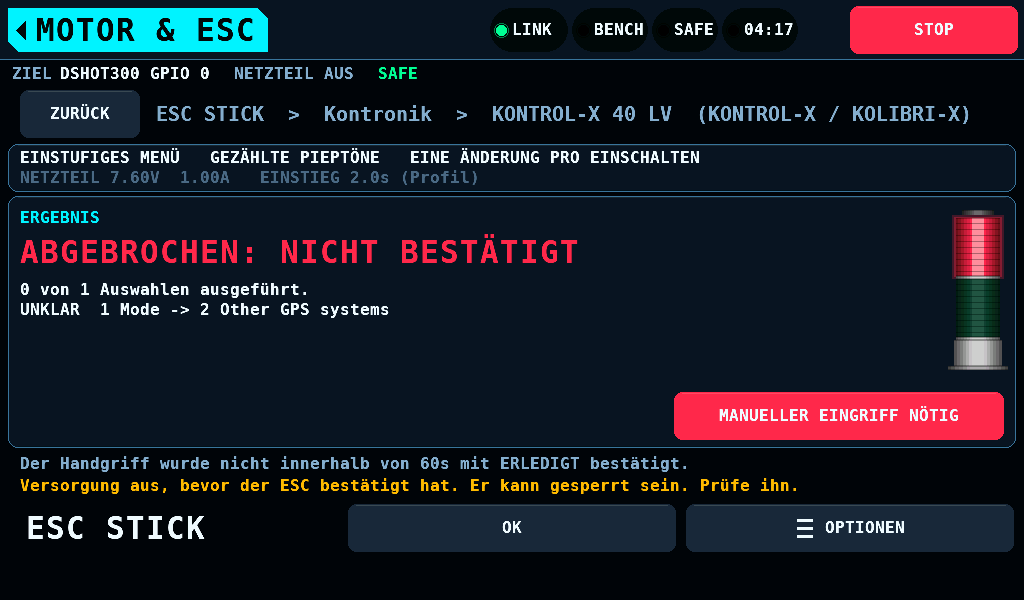
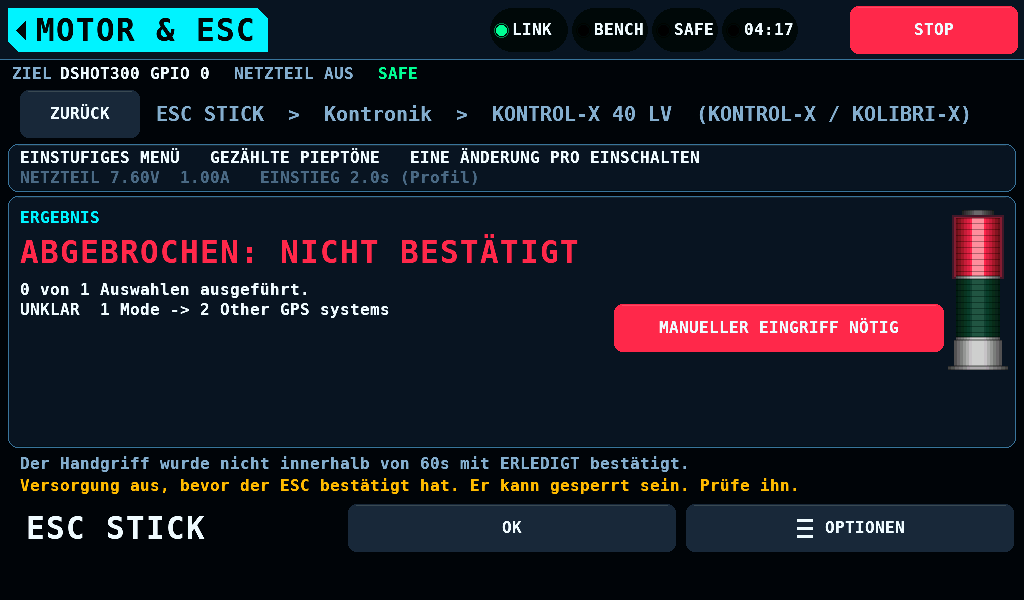
Move a result's MANUAL INTERVENTION REQUIRED beside the change lines
The button sat at the run card's foot, over the steps after programming,
the supply-off warning and the undo reminder. It now stands left of the
stack light at body y 244 to 292; the change lines beside it end 12px
to its left, and the button is drawn before every line.

Changed region(s): [[0.6562, 0.63, 1.0, 0.75], [0.5938, 0.48, 0.9375, 0.6]]

diff --git a/test/host/test_esc_stick_panel_hold.c b/test/host/test_esc_stick_panel_hold.c
@@ -10,11 +10,13 @@
  * - every_step_after_programming_is_shown
  * - no_step_at_the_esc_while_the_supply_reads_live
  * - the_run_page_shows_the_phase_tap_while_it_is_enabled
+ * - no_result_line_reaches_the_manual_button
  *
  * SPDX-License-Identifier: MIT
  */
 
 #include "esc_stick_panel_rig.h"
+#include "ui_widgets.h"
 #include "hold_flash.h"
 
 /* SUN PLUS mode 4 waits 5s from power-on, the profile's entry 2s: the
@@ -525,6 +527,147 @@ static int tone_drawn(rig_t *r, const tone_readout_t *t, int buf)
 
 /* A run's page shows the phase tap while the tap is enabled on SETUP, in
  * each state it can be in, and nothing in its place while it is not. */
+/** @brief Profile @p id's run with rows 0 to @p picks - 1 stepped once,
+ *         aborted at once, its result with the supply reading live.
+ *  @param id    The profile.
+ *  @param picks The rows stepped. */
+static void result_of(const char *id, int picks)
+{
+    fresh();
+    open_profile(id);
+    if (esc_stick_panel_hand_shown()) {
+        tap(CANCEL_X, HOLD_Y);               /* the first opening */
+    }
+    for (int k = 0; k < picks; ++k) {
+        tap(STEP_UP_X, STEP_CY(k));
+    }
+    supply_reads_off();
+    tap(WRITE_X, BTN_CY);                    /* the warning */
+    hold_for(2.25f);
+    if (esc_stick_panel_runs() == 0u) {
+        tap(STEPS_X, HOLD_Y);                /* ALL STEPS read */
+        tap(CANCEL_X, HOLD_Y);
+        hold_for(2.25f);
+    }
+    CHECK_EQ(esc_stick_panel_runs(), 1u);
+    tap(WRITE_X, BTN_CY);                    /* ABORT: the result */
+    (void)drain_cmds(MOTOR_CMD_ARM);
+    supply_state_t st;                       /* the output still on */
+    memset(&st, 0, sizeof(st));
+    st.samples = 9u;
+    st.output = true;
+    st.mode = SUPPLY_MODE_CV;
+    st.online = true;
+    st.ok = SUPPLY_OK_VOLTAGE | SUPPLY_OK_CURRENT;
+    esc_stick_panel_supply(&st);
+    scr->tick(0.02f);
+    if (esc_stick_panel_hand_shown()) {
+        tap(CANCEL_X, HOLD_Y);               /* OK: the steps, by themselves */
+    }
+}
+
+/** @brief The pixels in the result's MANUAL INTERVENTION REQUIRED, 8px in
+ *         from its edges, that are not the button as it draws alone.
+ *  @return the count */
+static int foreign_in_manual_button(void)
+{
+    static gfx_color_t ref[W * H];
+    gfx_canvas_t rc;
+    gfx_canvas_init(&rc, ref, W, H, W);
+    const gfx_rect_t b = { ST_HAND_RES_L, ST_HAND_RES_T, ST_HAND_RES_W,
+                           UI_TAP_MIN };
+    ui_button_font(&rc, b, TR(SP_HAND_BTN), ui_theme_color(UI_C_DANGER),
+                   false, true, &gfx_font_10x20);
+    memset(fb, 0, (size_t)W * H * sizeof(gfx_color_t));
+    stick_invalidate();
+    scr->render(&cv, 0);
+    int n = 0;
+    for (int y = b.y + 8; y < b.y + b.h - 8; ++y) {
+        for (int x = b.x + 8; x < b.x + b.w - 8; ++x) {
+            n += fb[(size_t)y * W + x] != ref[(size_t)y * W + x];
+        }
+    }
+    return n;
+}
+
+/* A result of a profile with manual steps draws MANUAL INTERVENTION
+ * REQUIRED, and no line of the result reaches into it, in English and
+ * German: HELI JIVE's steps after programming, the supply-off warning and
+ * the undo reminder; and the fullest change lines, five changes of the
+ * 8-item menu with four long steps after programming.  The button is
+ * drawn before the lines, so a line in it would show. */
+TEST_CASE(no_result_line_reaches_the_manual_button)
+{
+    static const esc_manual_t k[] = {
+        { ESC_MANUAL_BEFORE_POWER,
+          "Fit the programming jumper on the two gold contacts beside the "
+          "motor leads, with the receiver lead plugged in first.", 0u,
+          NULL, false, false },
+        { ESC_MANUAL_AFTER_PROGRAMMING,
+          "Take the programming jumper off the two gold contacts and keep "
+          "it with the model for the next change of the menu.", 0u,
+          NULL, false, false },
+    };
+    for (int lang = 0; lang < 2; ++lang) {
+        ui_text_set_language((ui_lang_t)lang);
+        /* HELI JIVE's steps before power and after programming.  Its own
+         * counted-item menu takes no run, so they go on the 8-item menu
+         * that runs, without the jumper pulled to start HELI JIVE's menu. */
+        esc_profiles_clear_overrides();
+        const esc_profile_t *real = esc_profiles_find("kontronik-heli-jive");
+        CHECK(real != NULL && real->manual_count > 0u);
+        esc_profile_t heli = *esc_profiles_find("hobbywing-flyfun-8item");
+        heli.id = "card-heli-jive";
+        heli.automatable = real->automatable;
+        heli.automatable_note = real->automatable_note;
+        static esc_manual_t steps[ESC_MANUAL_MAX];
+        uint8_t n = 0u;
+        for (unsigned i = 0; i < real->manual_count && n < ESC_MANUAL_MAX;
+             ++i) {
+            if (real->manual[i].when != ESC_MANUAL_BEFORE_MENU) {
+                steps[n++] = real->manual[i];   /* the menu's own start: not
+                                                 * the 8-item menu's */
+            }
+        }
+        CHECK_EQ(n, 2);
+        heli.manual = steps;
+        heli.manual_count = n;
+        CHECK(esc_profiles_override(&heli, NULL));
+        result_of("card-heli-jive", 1);
+        const esc_profile_t *jive = esc_stick_panel_page();
+        CHECK(jive != NULL && strcmp(jive->id, "card-heli-jive") == 0
+              && jive->manual_count > 0u);
+        CHECK_EQ(esc_stick_panel_stick()->phase, ESC_STICK_ABORTED);
+        CHECK(!esc_stick_panel_supply_reads_off());
+        CHECK_EQ(foreign_in_manual_button(), 0);
+
+        esc_profiles_clear_overrides();
+        esc_profile_t card = *esc_profiles_find("hobbywing-flyfun-8item");
+        card.id = "card-fullest";
+        card.automatable = ESC_AUTO_ASSISTED;
+        card.automatable_note = "Steps before power and after.";
+        card.manual = k;
+        card.manual_count = 2;
+        /* Its first five items under HELI JIVE's longest item name: the
+         * change lines at their fullest. */
+        static esc_item_t items[16];
+        CHECK(card.item_count <= 16u);
+        for (unsigned i = 0; i < card.item_count && i < 16u; ++i) {
+            items[i] = card.items[i];
+            if (i < 5u) {
+                items[i].name = real->items[1].name;
+            }
+        }
+        card.items = items;
+        CHECK(esc_profiles_override(&card, NULL));
+        result_of("card-fullest", 5);
+        CHECK_EQ(esc_stick_panel_stick()->n, 5);
+        CHECK_EQ(foreign_in_manual_button(), 0);
+        esc_profiles_clear_overrides();
+    }
+    ui_text_set_language(UI_LANG_EN);
+}
+
 TEST_CASE(the_run_page_shows_the_phase_tap_while_it_is_enabled)
 {
     fresh();
@@ -680,5 +823,6 @@ int main(void)
     RUN(no_step_at_the_esc_while_the_supply_reads_live);
     RUN(the_run_page_shows_the_phase_tap_while_it_is_enabled);
     RUN(hold_to_run_flashes_as_it_fires);
+    RUN(no_result_line_reaches_the_manual_button);
     return test_summary("esc_stick_panel_hold");
 }

diff --git a/shared/ui/esc_stick_draw_run.c b/shared/ui/esc_stick_draw_run.c
@@ -562,6 +562,16 @@ DRAWER void sp_draw_result(gfx_canvas_t *c)
     sp_result_head(e, line, sizeof(line));
     gfx_text(c, PAD + 12, y0, line, SP_FONT,
              ui_theme_color(UI_C_TEXT), 1);
+    /* MANUAL INTERVENTION REQUIRED beside the change lines, which end
+     * left of it, and drawn before every line, so a line that reached
+     * into it would show on it. */
+    const esc_profile_t *p = e->p;
+    const int cells = (p->manual_count > 0u) ? SP_BESIDE_CELLS
+                                              : SP_LINE_CELLS;
+    if (p->manual_count > 0u) {
+        ui_button_font(c, s.st.hand_res, TR(SP_HAND_BTN),
+                       ui_theme_color(UI_C_DANGER), false, true, SP_FONT);
+    }
     /* Five lines fit; past five, the fifth says how many more. */
     const unsigned shown = (e->n > 5u) ? 4u : e->n;
     for (unsigned i = 0; i < shown; ++i) {
@@ -570,8 +580,7 @@ DRAWER void sp_draw_result(gfx_canvas_t *c)
         snprintf(line, sizeof(line), "%s  %s",
                  esc_stick_unsure(e, i) ? TR(SP_MADE_CUT)
                  : e->done[i] ? TR(SP_MADE) : TR(SP_NOT_MADE), what);
-        sp_text(c, PAD + 12, y0 + (int)(i + 1u) * pitch, line,
-                SP_LINE_CELLS,
+        sp_text(c, PAD + 12, y0 + (int)(i + 1u) * pitch, line, cells,
                 e->done[i] ? ui_theme_color(UI_C_TEXT) : dim);
     }
     if (shown < e->n) {
@@ -583,11 +592,6 @@ DRAWER void sp_draw_result(gfx_canvas_t *c)
      * the power-up may still be there.  Steps that need more than the two
      * lines are counted there instead, and MANUAL INTERVENTION REQUIRED
      * above -- open by itself when the run ended -- lists every one. */
-    const esc_profile_t *p = e->p;
-    if (p->manual_count > 0u) {
-        ui_button_font(c, s.st.hand_res, TR(SP_HAND_BTN),
-                       ui_theme_color(UI_C_DANGER), false, true, SP_FONT);
-    }
     int y = y0 + 6 * pitch;
     int room = 2;
     int need = 0;

diff --git a/shared/ui/esc_stick_panel_int.h b/shared/ui/esc_stick_panel_int.h
@@ -107,6 +107,22 @@ _Static_assert(SP_FOOT_Y + 20 <= SP_FOOT, "the list's footer ends above "
 /** @brief What a result's lines under the stack light may take, from its
  *         seventh line on, in SP_CELL cells: 98. */
 #define SP_WIDE_CELLS  ((W - 2 * PAD - 24) / SP_CELL)
+/**
+ * @brief A result's MANUAL INTERVENTION REQUIRED: 330 x 48px left of the
+ *        stack light, from the second line under the result's head, body
+ *        x 614 to 944, y 244 to 292.  The change lines beside it end
+ *        12px left of it; the lines from the seventh on pass under it.
+ */
+#define SP_HAND_RES_W  330
+#define SP_HAND_RES_X  (SP_TOWER_X - 12 - SP_HAND_RES_W) /**< its left: 614 */
+#define SP_HAND_RES_Y  (RUN_L0 + LINE_P + 4)            /**< its top: 244  */
+/** @brief What a result's change lines may take beside that button, in
+ *         SP_CELL cells: 58. */
+#define SP_BESIDE_CELLS ((SP_HAND_RES_X - 12 - (PAD + 12)) / SP_CELL)
+_Static_assert(SP_HAND_RES_Y + UI_TAP_MIN <= RUN_L0 + 5 * LINE_P,
+               "the result's button ends above its sixth line");
+_Static_assert(SP_HAND_RES_Y >= RUN_L0 + LINE_P,
+               "the result's button starts under its head line");
 _Static_assert(SP_TOWER_Y + SP_TOWER_CAP + 2 * (SP_TOWER_LENS + SP_TOWER_RING)
                    + SP_TOWER_BASE + 4 <= RUN_L0 + 6 * LINE_P,
                "a result's lines from its seventh pass under the stack "

diff --git a/test/host/stick_spots.h b/test/host/stick_spots.h
@@ -19,8 +19,8 @@
  *     INTERVENTION REQUIRED x 688 to 998 at y 148 to 196;
  *   - the footer y 444 to 492 (ui_footer.h): RUN / ABORT / OK x 348 to
  *     676, SETTINGS x 686 to 1014;
- *   - a result's MANUAL INTERVENTION REQUIRED x 674 to 1004 at y 332 to
- *     380, at the run card's foot;
+ *   - a result's MANUAL INTERVENTION REQUIRED x 614 to 944 at y 244 to
+ *     292, left of the stack light;
  *   - the panels' buttons y 392 to 440: HOLD TO RUN / DONE x 28 to 288,
  *     ALL STEPS x 312 to 578, CANCEL / OK / ABORT x 816 to 996.
  *
@@ -59,8 +59,11 @@
 
 #define ST_WRITE_X      512            /**< RUN, ABORT, OK          */
 #define ST_BTN_CY       468            /**< the footer's middle     */
-#define ST_HAND_RES_X   839            /**< a result's MANUAL ...   */
-#define ST_HAND_RES_CY  356            /**< its middle              */
+#define ST_HAND_RES_X   779            /**< a result's MANUAL ...   */
+#define ST_HAND_RES_CY  268            /**< its middle              */
+#define ST_HAND_RES_L   614            /**< its left edge           */
+#define ST_HAND_RES_T   244            /**< its top                 */
+#define ST_HAND_RES_W   330            /**< its width               */
 
 #define ST_HOLD_X       158            /**< HOLD TO RUN, DONE       */
 #define ST_STEPS_X      445            /**< ALL STEPS               */

diff --git a/shared/ui/esc_stick_panel.c b/shared/ui/esc_stick_panel.c
@@ -87,10 +87,9 @@ void esc_stick_panel_reset(void)
     s.st.hand_btn   = (gfx_rect_t){ SIDE_IN, HAND_Y,
                                     (int16_t)(SIDE_CELLS * SP_CELL),
                                     UI_TAP_MIN };
-    /* On a result, at the run card's foot, right. */
-    s.st.hand_res   = (gfx_rect_t){ (int16_t)(W - PAD - 12 - 330),
-                                    (int16_t)(RUN_Y + RUN_H - 8 - UI_TAP_MIN),
-                                    330, UI_TAP_MIN };
+    /* On a result, left of the stack light, beside the change lines. */
+    s.st.hand_res   = (gfx_rect_t){ SP_HAND_RES_X, SP_HAND_RES_Y,
+                                    SP_HAND_RES_W, UI_TAP_MIN };
     sp_set_reset();
 }
 

diff --git a/docs/Screens-de.md b/docs/Screens-de.md
@@ -1419,7 +1419,7 @@ Beschriftungen, Zeilen und Schaltflächen verwenden die Schrift 10 x 20:
 | Seite eines Profils | links die Parameterfläche, 660px, y 84 bis 388: 5 Zeilen je Seite, 48px hoch im Abstand von 56px, jede mit ihrer Nummer, ihrem Namen (bis 23 Zeichen), ihrem Wert in einer 250px breiten Spalte und `-` und `+` von 48 x 48px, 8px zwischen je zweien; der Hinweis über die Breite auf bis zu 2 Zeilen ab y 396 |
 | Seitenspalte | 340px rechts der Parameterfläche: ÄNDERN, die gezeigten Zeilen und `^` und `v` von 48 x 48px; MANUELLER EINGRIFF NÖTIG, 310 x 48px; darunter, wie das Menü des Profils arbeitet, Netzteil und Einstiegszeit und die Hilfe der gewählten Zeile, umbrochen auf 31 Zeichen je Zeile |
 | Fußleiste | y 444 bis 492, 4px über dem Alarmband ([Die Fußleiste und die Optionsliste](#die-fußleiste-und-die-optionsliste)): `[ESC STICK] [START n / ABBRECHEN / OK] [OPTIONEN]` auf der Seite eines Profils, ihrem Lauf und ihrem Ergebnis |
-| Lauf und Ergebnis | die Gerätekarte über die Breite ab y 84 mit ihren zwei Zeilen, darunter von y 136 bis 388 die Karte des Laufs mit der Signalsäule rechts, zwei Hilfezeilen ab y 394 und die Fußleiste; MANUELLER EINGRIFF NÖTIG eines Ergebnisses, 330 x 48px, rechts am Fuß der Karte des Laufs |
+| Lauf und Ergebnis | die Gerätekarte über die Breite ab y 84 mit ihren zwei Zeilen, darunter von y 136 bis 388 die Karte des Laufs mit der Signalsäule rechts, zwei Hilfezeilen ab y 394 und die Fußleiste; MANUELLER EINGRIFF NÖTIG eines Ergebnisses, 330 x 48px, links der Signalsäule bei x 614 bis 944, y 244 bis 292; die Änderungszeilen daneben enden 12px links davon, die Zeilen ab der siebten laufen darunter |
 | Warnung, Handgriffe, Abfrage | ein Feld über den Seiten und der Fußleiste ab y 28, sein Titel in der Schrift 20 x 36, seine Zeilen im Abstand von 22px, seine Schaltflächen 48px hoch und 4px über der Fußleiste endend, sodass ein zweites Tippen auf die Stelle von START keine davon trifft |
 
 ZURÜCK und das Home-Feld führen jeweils eine Ebene zurück: vom

diff --git a/docs/Screens.md b/docs/Screens.md
@@ -1315,7 +1315,7 @@ with its labels, rows and buttons in the 10 x 20 face:
 | profile's page | the parameter card on the left, 660px, y 84 to 388: 5 rows a page, 48px tall at a 56px pitch, each with its number, its name (up to 23 characters), its value in a 250px column and `-` and `+` of 48 x 48px, 8px between any two; the note across the body on up to 2 lines from y 396 |
 | side column | 340px right of the parameter card: CHANGE, the rows shown and `^` and `v` of 48 x 48px; MANUAL INTERVENTION REQUIRED, 310 x 48px; then how the profile's menu works, the supply and the entry time, and the picked row's help, wrapped to 31 characters a line |
 | footer | y 444 to 492, 4px above the alert band ([The footer and the settings list](#the-footer-and-the-settings-list)): `[ESC STICK] [RUN n / ABORT / OK] [SETTINGS]` on a profile's page, its run and its result |
-| run and result | the device card across the body from y 84 with its two lines, the run's card under it from y 136 to 388 with the stack light at its right, two help lines from y 394, and the footer; a result's MANUAL INTERVENTION REQUIRED, 330 x 48px, at the run card's foot on the right |
+| run and result | the device card across the body from y 84 with its two lines, the run's card under it from y 136 to 388 with the stack light at its right, two help lines from y 394, and the footer; a result's MANUAL INTERVENTION REQUIRED, 330 x 48px, left of the stack light at x 614 to 944, y 244 to 292; the change lines beside it end 12px to its left, and the lines from the seventh on run under it |
 | warning, manual steps, prompt | a panel over the pages and the footer from y 28, its title in the 20 x 36 face, its lines at a 22px pitch, its buttons 48px tall ending 4px above the footer, so a second tap on RUN's place lands on none of them |
 
 BACK and the home tag move up one level: from a stick profile to its list,
